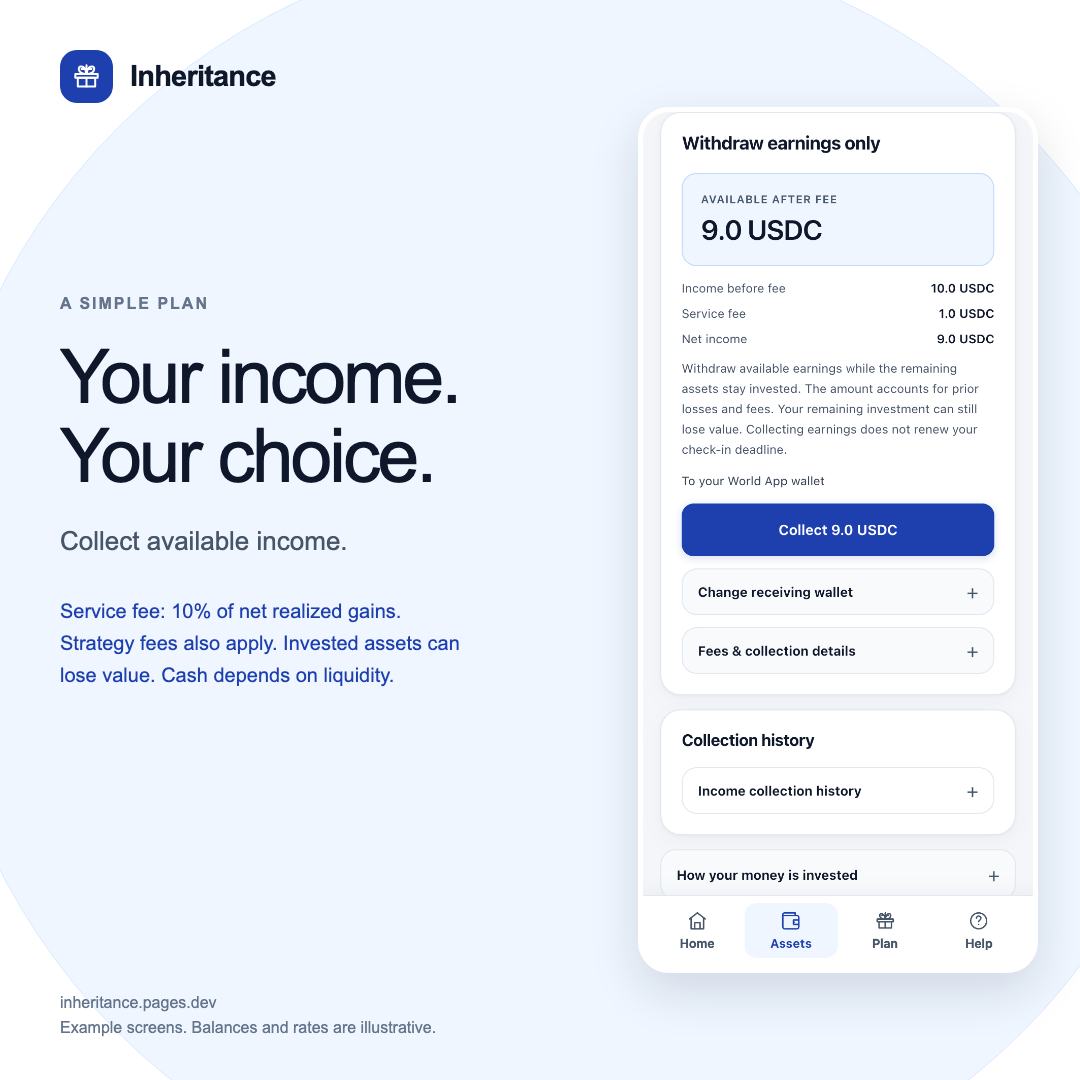
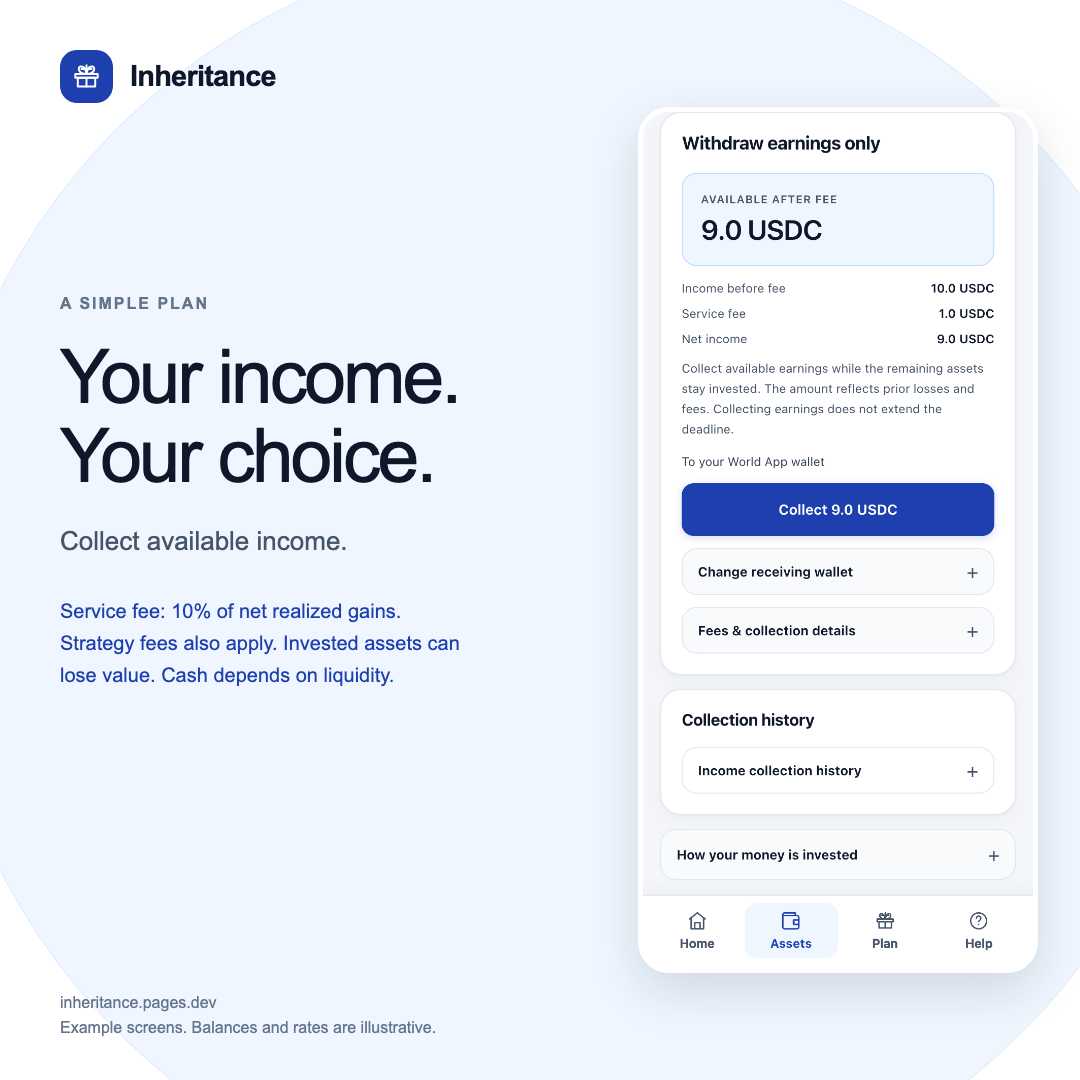
Refresh store screens with current product copy

Changed region(s): [[0.6111, 0.3361, 0.9167, 0.55], [0.6111, 0.6417, 0.7944, 0.825], [0.6417, 0.5806, 0.7944, 0.6111]]

diff --git a/docs/RELEASE.md b/docs/RELEASE.md
@@ -15,6 +15,11 @@ The operator's Korean opening sentence was preserved. The overview now explains
 setup, renewal, claims and fees without equating the integration with World App's
 own deposit product. South Korea remains the only store country.
 
+Store images were regenerated from the revised app using disposable test
+balances. The Korean renewal image uses the completed transaction as the start
+of the new period and omits the repeated app-opening warning. The English sharing
+image uses shorter text to preserve its footer clearance.
+
 The three public legal pages use shorter explanations of asset management,
 rewards and device recovery records. Their data categories, retention periods,
 fee calculation, delayed WLD ownership and consumer rights were preserved.
